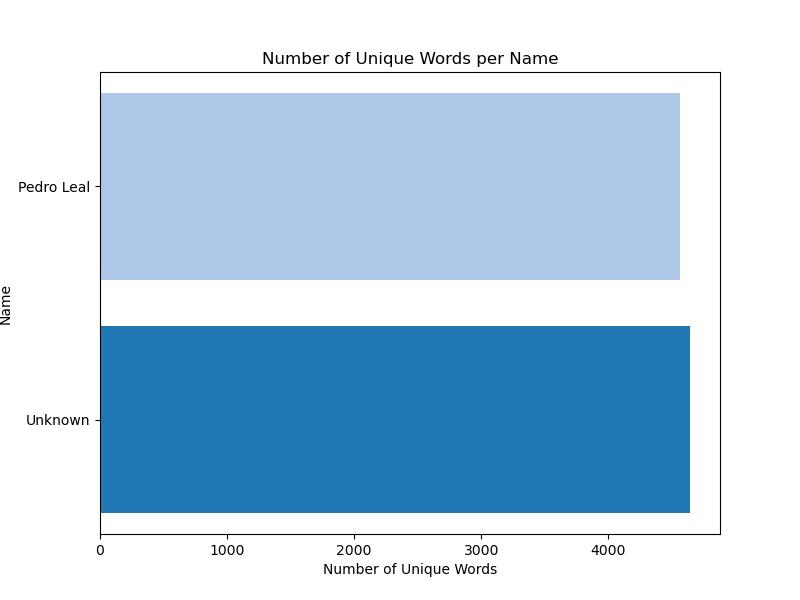
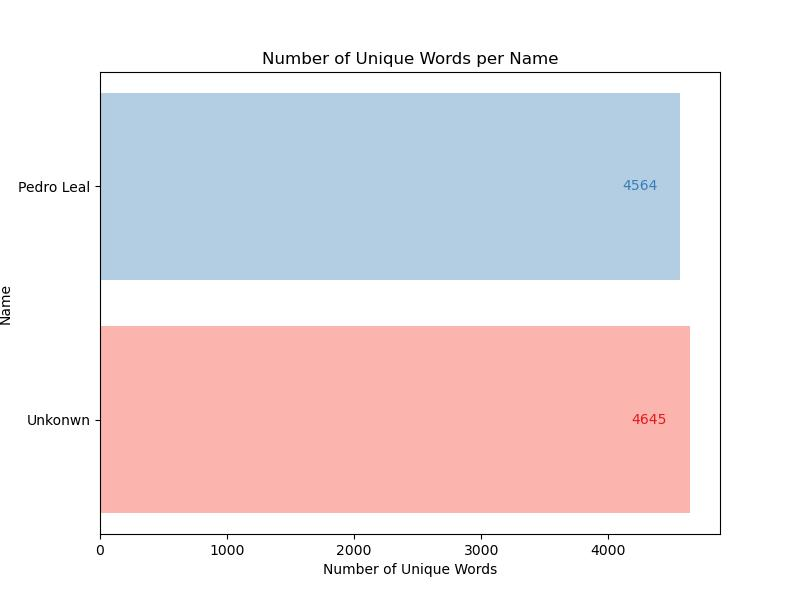
changes to improve  lexicon plot

Changed region(s): [[0.0312, 0.54, 0.875, 0.87], [0.7812, 0.3, 0.8125, 0.33]]

diff --git a/scr/wha.py b/scr/wha.py
@@ -50,7 +50,6 @@ def w_df(path):
     df = df.iloc[1:, :]
     # Reset the index of the DataFrame
     df = df.reset_index(drop=True)
-
     # Return the DataFrame
     return df
 
@@ -125,15 +124,15 @@ def weekly_messages(df, colors=None):
 
     # Set the title and axis labels
     ax.set_title('Message Counts by Day of the Week and Season')
-    ax.set_xlabel('Day of the Week')
-    ax.set_ylabel('Number of Messages')
+    ax.set_ylabel('Day of the Week')
+    ax.set_xlabel('Number of Messages')
 
     # Format the x-axis tick labels
     days = ['Monday', 'Tuesday', 'Wednesday',
             'Thursday', 'Friday', 'Saturday', 'Sunday']
     ax.set_yticks(range(len(days)))
     ax.set_yticklabels(days, rotation=0)
-
+    plt.savefig("../images/weekly.jpg")
     # Show the plot
     plt.show()
 
@@ -236,7 +235,7 @@ def plot_top_words(df):
         'estuvieses', 'estuviésemos', 'estuvieseis', 'estuviesen', 'estando', 'estado',
         'estada', 'estados', 'estadas', 'estad', 'he', 'has', 'ha', 'hemos', 'habéis',
         'han', 'haya', 'hayas', 'hayamos', 'hayáis', 'hayan', 'habré', 'habrás', 'habrá',
-        'habremos', "es", "sea", "fue", "pues", "si", "meno", "cómo", "bien",
+        'habremos', "es", "sea", "fue", "pues", "si", "meno", "cómo", "bien", "lunita",
         "solo", "igual", "bueno", "así", "mejor", "ahí", "bien", "cosas", "sé", "vez", "tan", "vas"]
 
     for name in df['Name'].unique():
@@ -302,19 +301,28 @@ def plot_lexicon(df):
 
     # Create bar plot
     fig, ax = plt.subplots(figsize=(8, 6))
-    ax.barh(list(sorted_unique_words.keys()), list(
-        sorted_unique_words.values()), color=plt.cm.tab20(range(len(sorted_unique_words))))
+    bars = ax.barh(list(sorted_unique_words.keys()), list(
+        sorted_unique_words.values()), color=plt.cm.Pastel1(range(len(sorted_unique_words))))
     ax.set_xlabel('Number of Unique Words')
     ax.set_ylabel('Name')
     ax.set_title('Number of Unique Words per Name')
+
+    # Loop through each bar and add the value at the end
+    for i, bar in enumerate(bars):
+        color = plt.cm.Set1(range(len(bars)))[i]
+        value = list(sorted_unique_words.values())[i]
+        ax.text(bar.get_width() * 9/10, bar.get_y() + bar.get_height() / 2, value,
+                ha='left', va='center', color=color)
+
     plt.savefig(f"../images/lexicon.jpg")
     plt.show()
 
 
 df = w_df('../data/WhatsApp.txt')
-# plot_messages(df)
+
 # daily_messages(df)
-# weekly_messages(df)
+# weekly_messages(df, colors=None)
 # plot_emojis(df)
+# plot_messages(df)
+# plot_top_words(df)
 # plot_lexicon(df)
-plot_top_words(df)

diff --git a/scr/sentiment_analysis.py b/scr/sentiment_analysis.py
@@ -98,7 +98,8 @@ def emoji_analysis(df):
             title_text=f"Sentiment analysis for {name}", height=600, width=900)
 
         fig.write_image(f"../images/{name}-sent_analysis_emoji.jpg")
+        fig.show()
 
 
 df1 = df[['Name', 'Message']]
-# emoji_analysis(df1)
+emoji_analysis(df1)
